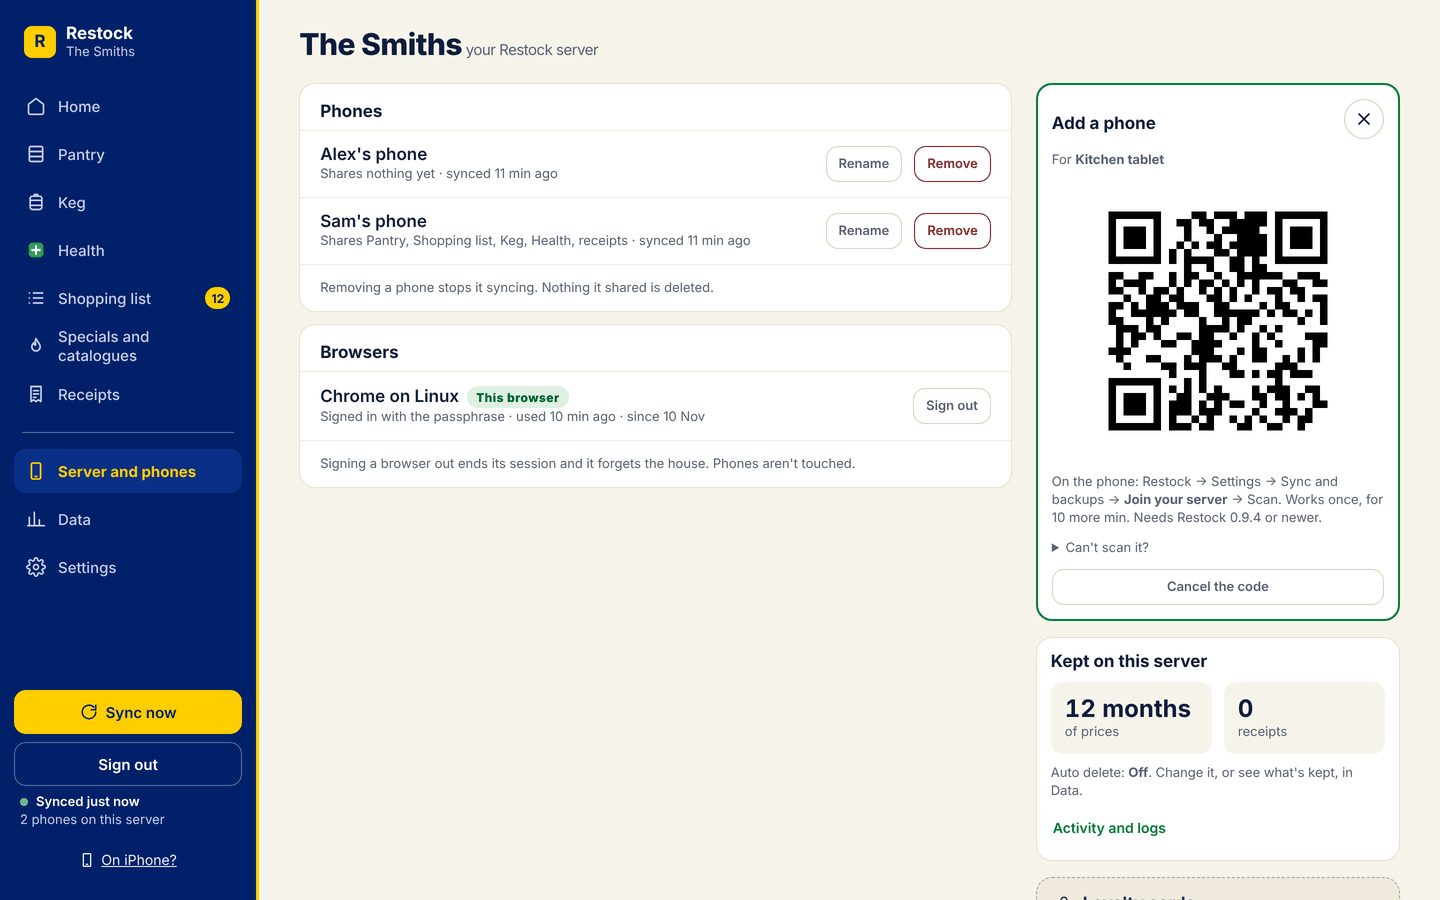
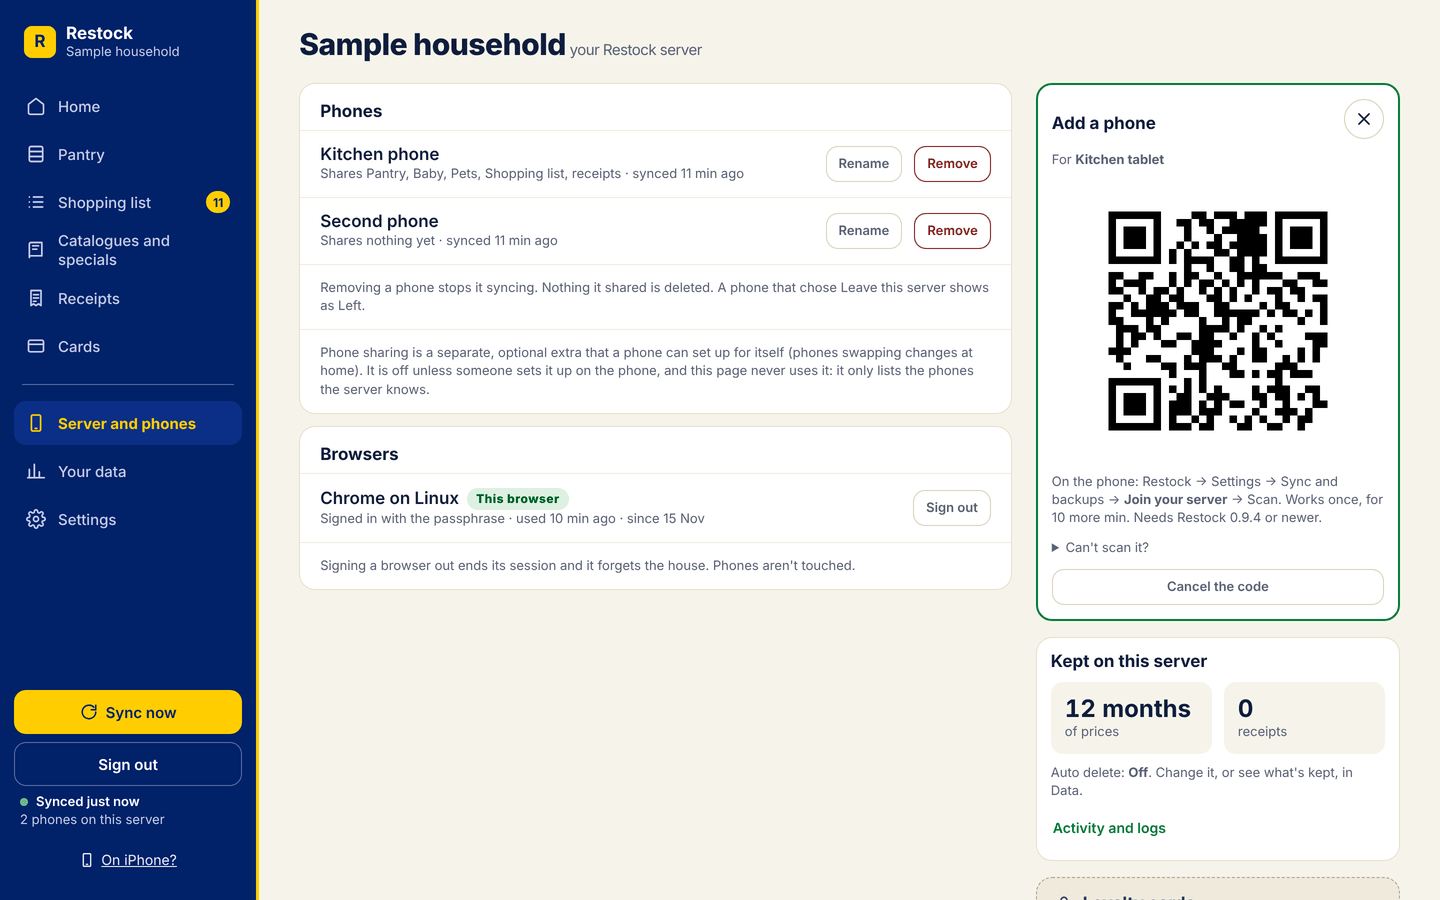
New web screenshots for 0.11.1 (sample data with real products)

diff --git a/README.md b/README.md
@@ -13,6 +13,8 @@ Your household's own server for [Restock](https://github.com/d-plenty/Restock), 
 
 <p align="center"><img src="docs/screenshots/web-home-light.png" alt="The Restock server's web page on a computer: Home, with a greeting and the date, the Shopping list and this week's specials"></p>
 
+The pictures on this page use sample data: real products and prices, with a made-up year of price history and spending.
+
 ## Contents
 
 - [Which machine?](#which-machine): Home Assistant, a Raspberry Pi or mini PC, or a NAS
@@ -151,7 +153,7 @@ Sign in on any computer and you have Restock laid out for a big screen, from wha
 
 <p align="center"><img src="docs/screenshots/web-list-light.png" alt="The Shopping list on the web, by shop, with the item panel open and its photo at the top" width="720"></p>
 
-<p align="center"><img src="docs/screenshots/web-specials-light.png" alt="Specials and catalogues: My catalogue, with Previous and Next above the page" width="720"></p>
+<p align="center"><img src="docs/screenshots/web-specials-light.png" alt="Catalogues and specials: My catalogue, with Previous and Next above the page" width="720"></p>
 
 <p align="center"><img src="docs/screenshots/web-settings-light.png" alt="Settings on the web, with Save settings at the top right and Let the web page search the shops" width="720"></p>
 
